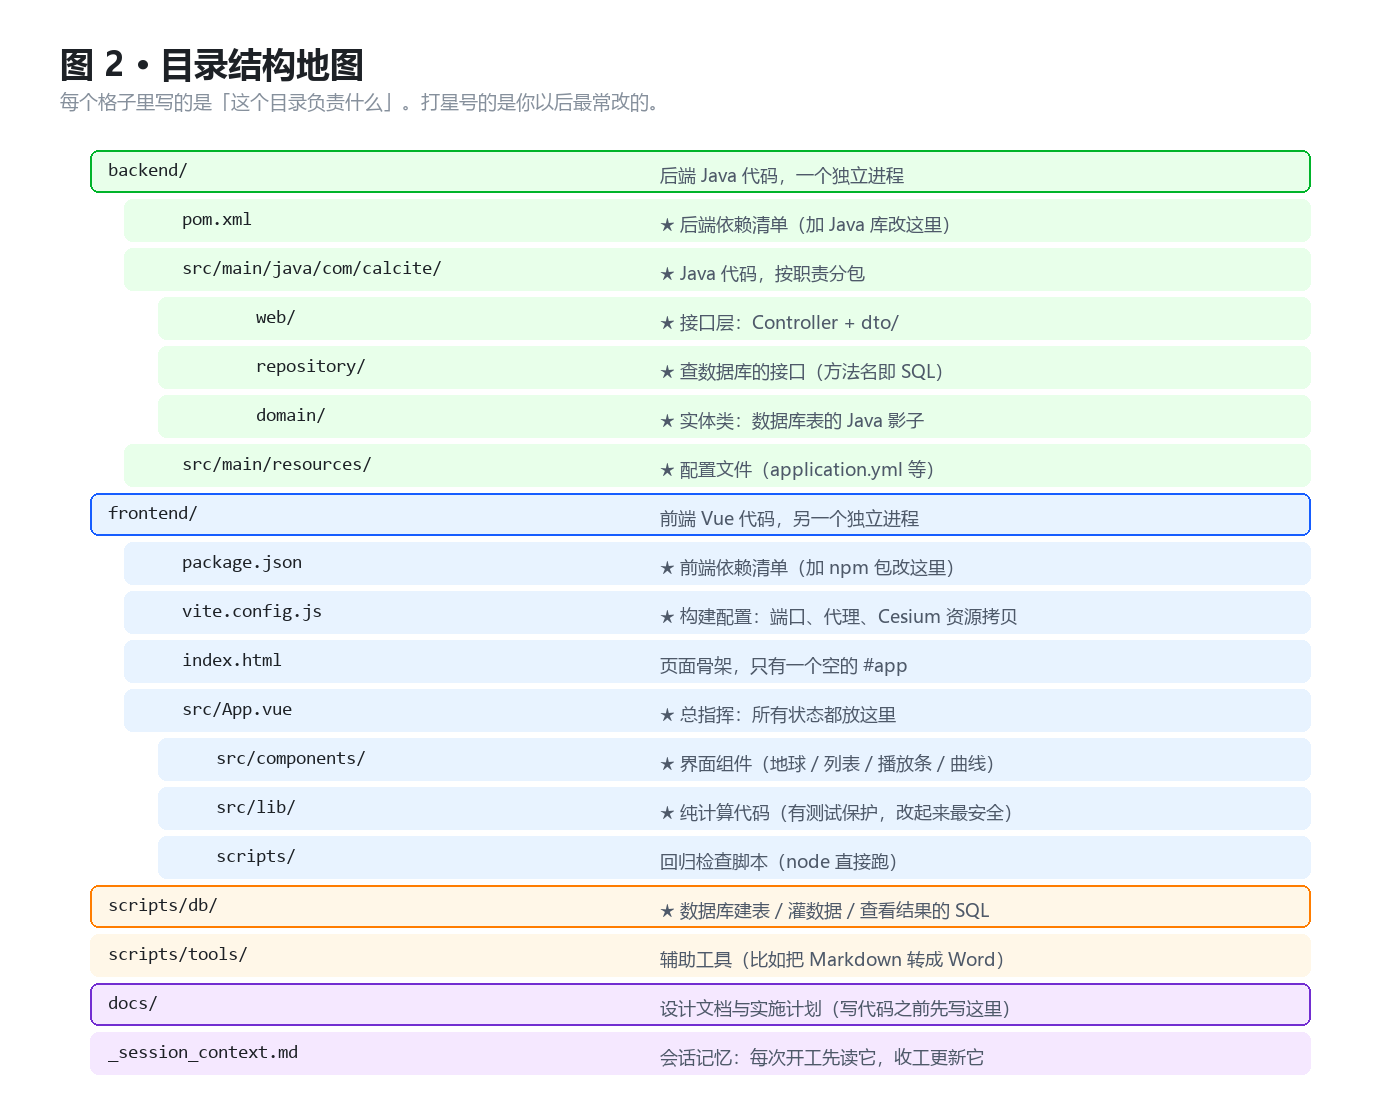
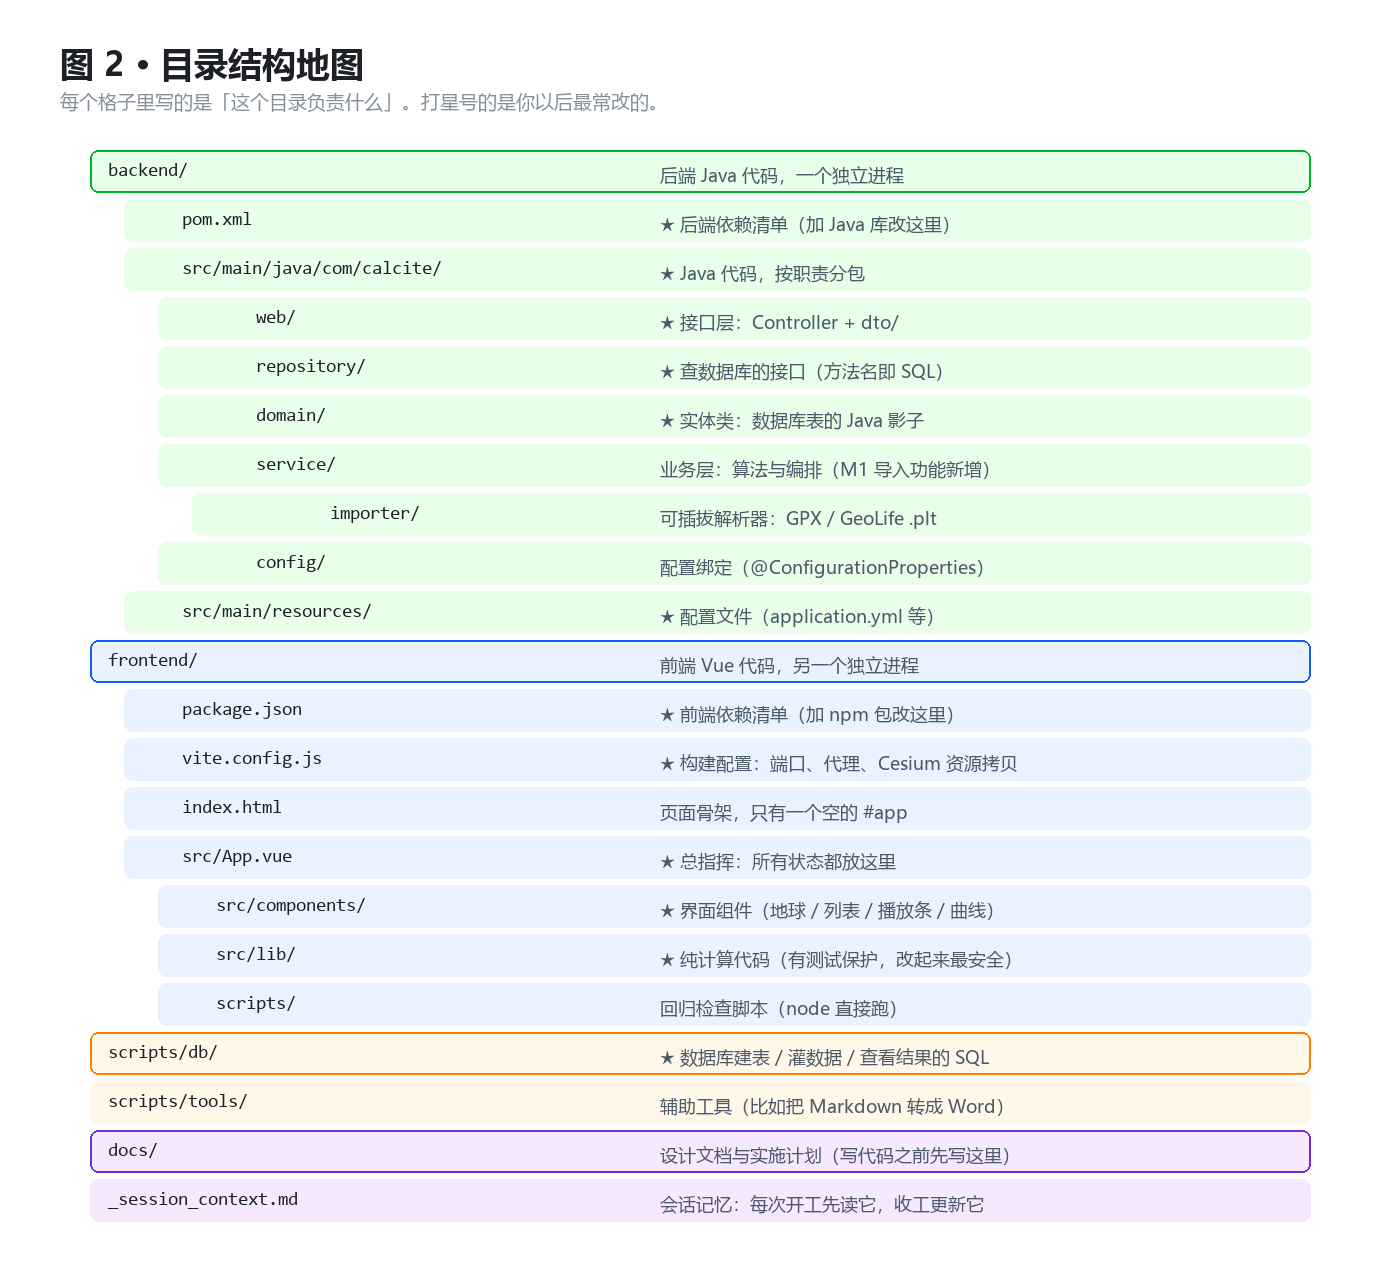
docs(structure-map): 补上 M1 导入功能新增的 service/ 与 config/ 两个包
正文：
- 第 6 章后端分层表加 service/ 业务层，并说明它是'分层的自然生长'
- 第 10.1 节包结构树补 service/ service/importer/ config/ 全部类
- 第 11 章速查表加'加业务逻辑/加导入格式/加配置项'三行
- 第 12.1 节 service/ 从'待建'改为'已存在'
- 第 12.2 节轨迹导入从'规划'改为'已完成'并记录实际落地位置

图：
- 图 2 目录结构补三个新包
- 图 4 后端分层从四层改五层（加入 service/ 并解释为什么）
- 图 7 '加东西放哪里'补三行

diff --git a/docs/learning/figs/make_figs.py b/docs/learning/figs/make_figs.py
@@ -179,7 +179,7 @@ def fig1():
 
 # ------------------------------------------------------------ 图 2 目录结构
 def fig2():
-    g = Fig(1120)
+    g = Fig(1280)
     g.title("图 2 · 目录结构地图",
             "每个格子里写的是「这个目录负责什么」。打星号的是你以后最常改的。")
 
@@ -190,6 +190,9 @@ def fig2():
         ("        web/", "★ 接口层：Controller + dto/", GREEN_F, GREEN_F, 2),
         ("        repository/", "★ 查数据库的接口（方法名即 SQL）", GREEN_F, GREEN_F, 2),
         ("        domain/", "★ 实体类：数据库表的 Java 影子", GREEN_F, GREEN_F, 2),
+        ("        service/", "业务层：算法与编排（M1 导入功能新增）", GREEN_F, GREEN_F, 2),
+        ("            importer/", "可插拔解析器：GPX / GeoLife .plt", GREEN_F, GREEN_F, 3),
+        ("        config/", "配置绑定（@ConfigurationProperties）", GREEN_F, GREEN_F, 2),
         ("    src/main/resources/", "★ 配置文件（application.yml 等）", GREEN_F, GREEN_F, 1),
         ("frontend/", "前端 Vue 代码，另一个独立进程", BLUE, BLUE_F, 0),
         ("    package.json", "★ 前端依赖清单（加 npm 包改这里）", BLUE_F, BLUE_F, 1),
@@ -268,39 +271,44 @@ def fig3():
 
 # --------------------------------------------------------- 图 4 后端分层
 def fig4():
-    g = Fig(760)
-    g.title("图 4 · 后端为什么要分四层",
+    g = Fig(720)
+    g.title("图 4 · 后端为什么要分层",
             "每一层只干一件事。分层不是为了好看，是为了「改一处不用动别处」。")
 
-    g.box(60, 150, 300, 120, "web/Controller", ("收 HTTP 请求", "决定返回什么、什么时候抛 404"),
-          border=GREEN, fill=GREEN_F, ts=23, ss=16)
-    g.box(400, 150, 300, 120, "repository/", ("拿数据", "方法名 = SQL（findByTrackId…）"),
-          border=GREEN, fill=GREEN_F, ts=23, ss=16)
-    g.box(740, 150, 300, 120, "domain/Entity", ("数据库表的 Java 影子", "一个对象 = 一行数据"),
-          border=GREEN, fill=GREEN_F, ts=23, ss=16)
-    g.box(1080, 150, 260, 120, "数据库", ("真正存数据的地方",),
-          border=ORANGE, fill=ORANGE_F, ts=23, ss=16)
+    # 一条链：Controller → service → repository → domain → 数据库
+    chain = [
+        (36, "web/Controller", ("收 HTTP 请求", "决定返回什么 / 抛 404")),
+        (308, "service/", ("算法与编排", "清洗规则只在这一层")),
+        (580, "repository/", ("拿数据", "方法名 = SQL")),
+        (852, "domain/Entity", ("表的 Java 影子", "一个对象 = 一行")),
+    ]
+    for x, name, subs in chain:
+        g.box(x, 150, 240, 120, name, subs, border=GREEN, fill=GREEN_F, ts=21, ss=15)
+    g.box(1124, 150, 240, 120, "数据库", ("真正存数据的地方",),
+          border=ORANGE, fill=ORANGE_F, ts=21, ss=15)
 
-    g.box(60, 330, 300, 120, "web/dto/", ("要发出去的精简版", "只留前端用得上的字段"),
-          border=CYAN, fill=CYAN_F, ts=23, ss=16)
+    for x in (276, 548, 820, 1092):
+        g.arrow(x, 210, x + 28, 210, color=GREEN, width=2)
 
-    g.arrow(360, 210, 396, 210, "调用", color=GREEN, label_dy=-16)
-    g.arrow(700, 210, 736, 210, "调用", color=GREEN, label_dy=-16)
-    g.arrow(1040, 210, 1076, 210, "SQL", color=ORANGE, label_dy=-16)
-    g.arrow(1210, 274, 1210, 470, "", color=ORANGE)
-    g.arrow(1210, 470, 210, 470, "", color=ORANGE)
-    g.arrow(210, 470, 210, 454, "数据往回走", color=ORANGE, label_dx=120, label_dy=0)
+    g.box(36, 330, 240, 120, "web/dto/", ("要发出去的精简版", "只留前端用得上的字段"),
+          border=CYAN, fill=CYAN_F, ts=21, ss=15)
 
-    g.text(400, 500, "为什么要 DTO 这一层？", size=23, bold=True, color=INK)
+    # 数据往回走：从数据库底部绕下来，回到 dto
+    g.d.line([1244, 274, 1244, 580], fill=ORANGE, width=2)
+    g.d.line([1244, 580, 160, 580], fill=ORANGE, width=2)
+    g.arrow(160, 580, 160, 456, "数据往回走", color=ORANGE, label_dx=120, label_dy=0)
+
+    g.text(360, 360, "为什么要 service 这一层？", size=22, bold=True, color=INK)
     for i, s in enumerate([
-        "① 实体里可能有多余字段（比如内部用的 id、数据库时间戳），不该发给前端",
-        "② 前端要的格式和数据库不一样（比如要数组、要重命名的字段），转换放在 DTO 的 from() 里",
-        "③ 以后数据库改字段，只要 DTO 不变，前端就完全不用动",
+        "① 导入要做「识别格式 → 解析 → 清洗 → 分批入库」，",
+        "     这既不是 HTTP 的事，也不是数据库的事",
+        "② 清洗规则只写一份，三种格式、两个入口共用（M1 导入功能引入）",
+        "③ 纯计算（距离、刻度）写成静态方法，不依赖 Spring，秒测",
     ]):
-        g.text(400, 545 + i * 34, s, size=18, color=(0x4E, 0x59, 0x69))
+        g.text(360, 400 + i * 30, s, size=17, color=(0x4E, 0x59, 0x69))
 
-    g.text(60, 660, "记住一句：Controller 不写 SQL，Repository 不碰 HTTP，Entity 不认识前端。",
-           size=19, bold=True, color=RED)
+    g.text(36, 640, "记住一句：Controller 不写 SQL，service 不碰 HTTP，Repository 不碰 SQL 之外的事，Entity 不认识前端。",
+           size=17, bold=True, color=RED)
     g.save("fig4-backend.png")
 
 
@@ -401,19 +409,22 @@ def fig6():
 
 # --------------------------------------------------- 图 7 加东西放哪里
 def fig7():
-    g = Fig(920)
+    g = Fig(1240)
     g.title("图 7 · 以后要加东西，放哪里",
             "先问「这东西属于哪一层」，答案就出来了。这张图以后你会反复回来看。")
 
     items = [
-        ("想加一个新的接口\n（比如导入轨迹）", "backend/src/main/java/com/calcite/web/", "新建 XxxController.java", GREEN, GREEN_F),
+        ("想加一个新的接口\n（比如导入轨迹）", "backend/.../web/", "新建 XxxController.java", GREEN, GREEN_F),
+        ("想加一段业务逻辑\n（算法 / 清洗 / 编排）", "backend/.../service/", "新建 XxxService.java；纯计算的写成静态方法，秒测", GREEN, GREEN_F),
+        ("想加一种新的导入格式", "backend/.../service/importer/", "实现 Importer 接口 + 在 FormatDetector 加识别规则", GREEN, GREEN_F),
+        ("想加一个可配置项", "backend/.../config/", "标量用 @Value；列表/嵌套用 @ConfigurationProperties", GREEN, GREEN_F),
         ("想加一张新表", "scripts/db/", "新建 04-xxx.sql，同时在 domain/ 加实体类", ORANGE, ORANGE_F),
         ("想加一个复杂查询", "backend/.../repository/", "在 Repository 接口里加一个方法", GREEN, GREEN_F),
         ("想加一个新页面 / 新面板", "frontend/src/components/", "新建 Xxx.vue，在 App.vue 里挂上去", BLUE, BLUE_F),
-        ("想加一段计算逻辑\n（不涉及界面）", "frontend/src/lib/", "新建 xxx.js + 在 scripts/ 加检查脚本", PURPLE, PURPLE_F),
+        ("想加一段前端计算逻辑", "frontend/src/lib/", "新建 xxx.js + 在 scripts/ 加检查脚本", PURPLE, PURPLE_F),
         ("想加一个 Java 库", "backend/pom.xml", "<dependency> 写在 <dependencies> 里", GREEN, GREEN_F),
         ("想加一个 npm 包", "frontend/package.json", "用 npm install xxx 自动写入", BLUE, BLUE_F),
-        ("想加一张图片 / 静态资源", "frontend/public/", "这个目录还没建，需要自己新建一个，用 /文件名 访问", BLUE, BLUE_F),
+        ("想加一张图片 / 静态资源", "frontend/public/", "这个目录还没建，需要自己新建，用 /文件名 访问", BLUE, BLUE_F),
     ]
     y = 160
     for want, where, how, border, fill in items:

diff --git a/docs/learning/2026-09-10-calcite-structure-map.md b/docs/learning/2026-09-10-calcite-structure-map.md
@@ -187,8 +187,18 @@
 | --- | --- | --- | --- |
 | 接口层 | `web/` | 收请求、决定返回什么、抛 404 | 不写 SQL |
 | 传输对象 | `web/dto/` | 定义「发给前端的形状」 | 不放业务逻辑 |
+| **业务层** | **`service/`** ⭐ | **算法与编排**：清洗规则、导入流程、距离计算 | **不碰 HTTP，也不写 SQL** |
 | 持久层 | `repository/` | 查/存数据库 | 不碰 HTTP |
 | 实体层 | `domain/` | 数据库表的 Java 影子 | 不认识前端 |
+
+> ⭐ **`service/` 是 2026-09-12 做 M1 轨迹导入时新增的层。**
+>
+> 在那之前 Controller 直接调 Repository——因为逻辑很简单，中间加一层是多余的。
+> 导入功能带来了真正的业务逻辑：**格式识别 → 解析 → 清洗 → 分批入库**。
+> 这些既不该塞进 Controller（那是 HTTP 的事），也不该塞进 Repository（那是数据库的事）。
+>
+> 这就是分层的**自然生长**：不是一开始就要有，而是逻辑复杂到一定程度后水到渠成。
+> （结构地图上一版就把这件事写在第 12.1 节当"预告"，现在它发生了。）
 
 ### 6.1 Repository 的方法名就是 SQL
 
@@ -329,13 +339,29 @@ com.calcite
 ├── repository/                ← 持久层：名词 + Repository
 │   ├── TrackRepository.java
 │   └── TrackPointRepository.java
+├── service/                   ← 业务层：算法与编排（名词 + Service / 工具类）
+│   ├── GeoUtils.java              球面距离（纯静态工具）
+│   ├── TrackCleaner.java          清洗规则（动词 + er）
+│   ├── CleanedTrack.java          清洗结果（record）
+│   ├── ImportService.java         名词 + Service
+│   └── importer/                  子包：可插拔解析器
+│       ├── Importer.java          接口（名词）
+│       ├── RawPoint.java          统一中间结构（record）
+│       ├── ParsedTrack.java
+│       ├── FormatDetector.java    动词 + er
+│       ├── GpxImporter.java       格式名 + Importer
+│       └── GeoLifeImporter.java
+├── config/                    ← 配置绑定：@ConfigurationProperties 类
+│   └── ImportProperties.java      前缀名 + Properties
 └── web/                       ← 接口层：名词 + Controller
     ├── HealthController.java
     ├── TrackController.java
+    ├── ImportController.java
     └── dto/                   ← 传输对象：名词 + Summary/Detail/Dto
         ├── TrackSummary.java
         ├── TrackDetail.java
-        └── TrackPointDto.java
+        ├── TrackPointDto.java
+        └── ImportResult.java
 ```
 
 **包名全小写，类名大驼峰，方法/变量小驼峰**——这是 Java 的铁律，不是风格偏好。
@@ -393,7 +419,10 @@ docs/
 | 改轨迹线的颜色 | `CesiumGlobe.vue` |
 | 改播放速度 | `lib/playback.js` |
 | 给轨迹列表加一列 | ① `web/dto/TrackSummary.java` 加字段 ② `TrackList.vue` 显示 |
-| 加一个新接口 | ① `web/XxxController.java` ② 需要查库就改 `repository/` ③ 想好 DTO |
+| 加一个新接口 | ① `web/XxxController.java` ② 逻辑放 `service/` ③ 查库改 `repository/` ④ 想好 DTO |
+| **加一段业务逻辑（算法/清洗/编排）** | **`service/` 下新建类**；纯计算的就别碰 Spring，写成静态方法更好测 |
+| **加一种新的导入格式** | `service/importer/` 下实现 `Importer` 接口 + 在 `ImportService.pickImporter()` 里加一个 case + 在 `FormatDetector` 里加识别规则 |
+| **加一个可配置项** | 标量用 `@Value`；**列表/嵌套结构用 `@ConfigurationProperties`**（放在 `config/`） |
 | 加一张新表 | ① `scripts/db/04-xxx.sql` ② `domain/Xxx.java` ③ 跑脚本 |
 | 改接口返回的字段名 | `web/dto/` 里对应的 `from()` 方法 + 前端用的地方 |
 | 加一个 npm 包 | `frontend/package.json`（用 `npm install` 自动写） |
@@ -411,22 +440,28 @@ docs/
 
 | 要加的东西 | 放哪里 | 备注 |
 | --- | --- | --- |
-| 停留点算法 | `backend/.../service/StayPointService.java` | **要新建 `service/` 包**——算法比较长，不该塞进 Controller |
+| 停留点算法 | `backend/.../service/StayPointService.java` | `service/` 包**已经存在**（M1 导入功能建的），直接往里加类即可 |
 | 查询接口 | `backend/.../web/StayPointController.java` | 新文件 |
 | 数据表 | `stay_point` | ✅ **已经建好了**，`scripts/db/01-schema.sql` 里 |
 | 地图上的停留圆圈 | `CesiumGlobe.vue` 里加图层 | 或新建 `StayPointLayer.vue` |
 | 停留点列表 | 新建 `StayPointList.vue` | 在 `App.vue` 挂上 |
 
-**注意 `service/` 这个新包**：现在的 Controller 直接调 Repository，因为逻辑很简单。当算法变复杂（比如停留点检测要几十行），就该抽一个 `service/` 层。这是分层的自然生长，不是一开始就需要的。
+> 📌 **上一版这里写着"要新建 `service/` 包"——现在它已经存在了。**
+> M1 的导入功能就是那个"算法复杂到需要中间层"的时刻（见第 6 章）。
 
-### 12.2 轨迹导入
+### 12.2 轨迹导入 —— ✅ **2026-09-12 已完成**
 
-| 要加的东西 | 放哪里 |
+实际落地的位置（和下面这版规划略有出入，以实际为准）：
+
+| 做的东西 | 实际放在哪 |
 | --- | --- |
-| 上传接口 | `web/TrackController.java` 加一个 `@PostMapping`，或新建 `ImportController` |
-| GeoLife `.plt` 解析 | `backend/.../service/GeoLifeParser.java` |
-| 保序去重 | 同上（同一个 service） |
-| 前端上传按钮 | `TrackList.vue` 加按钮，或新建 `ImportPanel.vue` |
+| 上传接口 | `web/ImportController.java`（新建的，没有塞进 TrackController） |
+| 编排流程 | `service/ImportService.java` |
+| 格式识别 | `service/importer/FormatDetector.java`（**按内容，不看扩展名**） |
+| GPX 解析 | `service/importer/GpxImporter.java` |
+| GeoLife `.plt` 解析 | `service/importer/GeoLifeImporter.java` |
+| 清洗规则 | `service/TrackCleaner.java`（**所有规则只此一处**） |
+| 前端上传按钮 | `TrackList.vue` 里加了按钮（没有单独开组件——就一个按钮，不值得） |
 
 ### 12.3 M3 · 轨迹相似度
 
